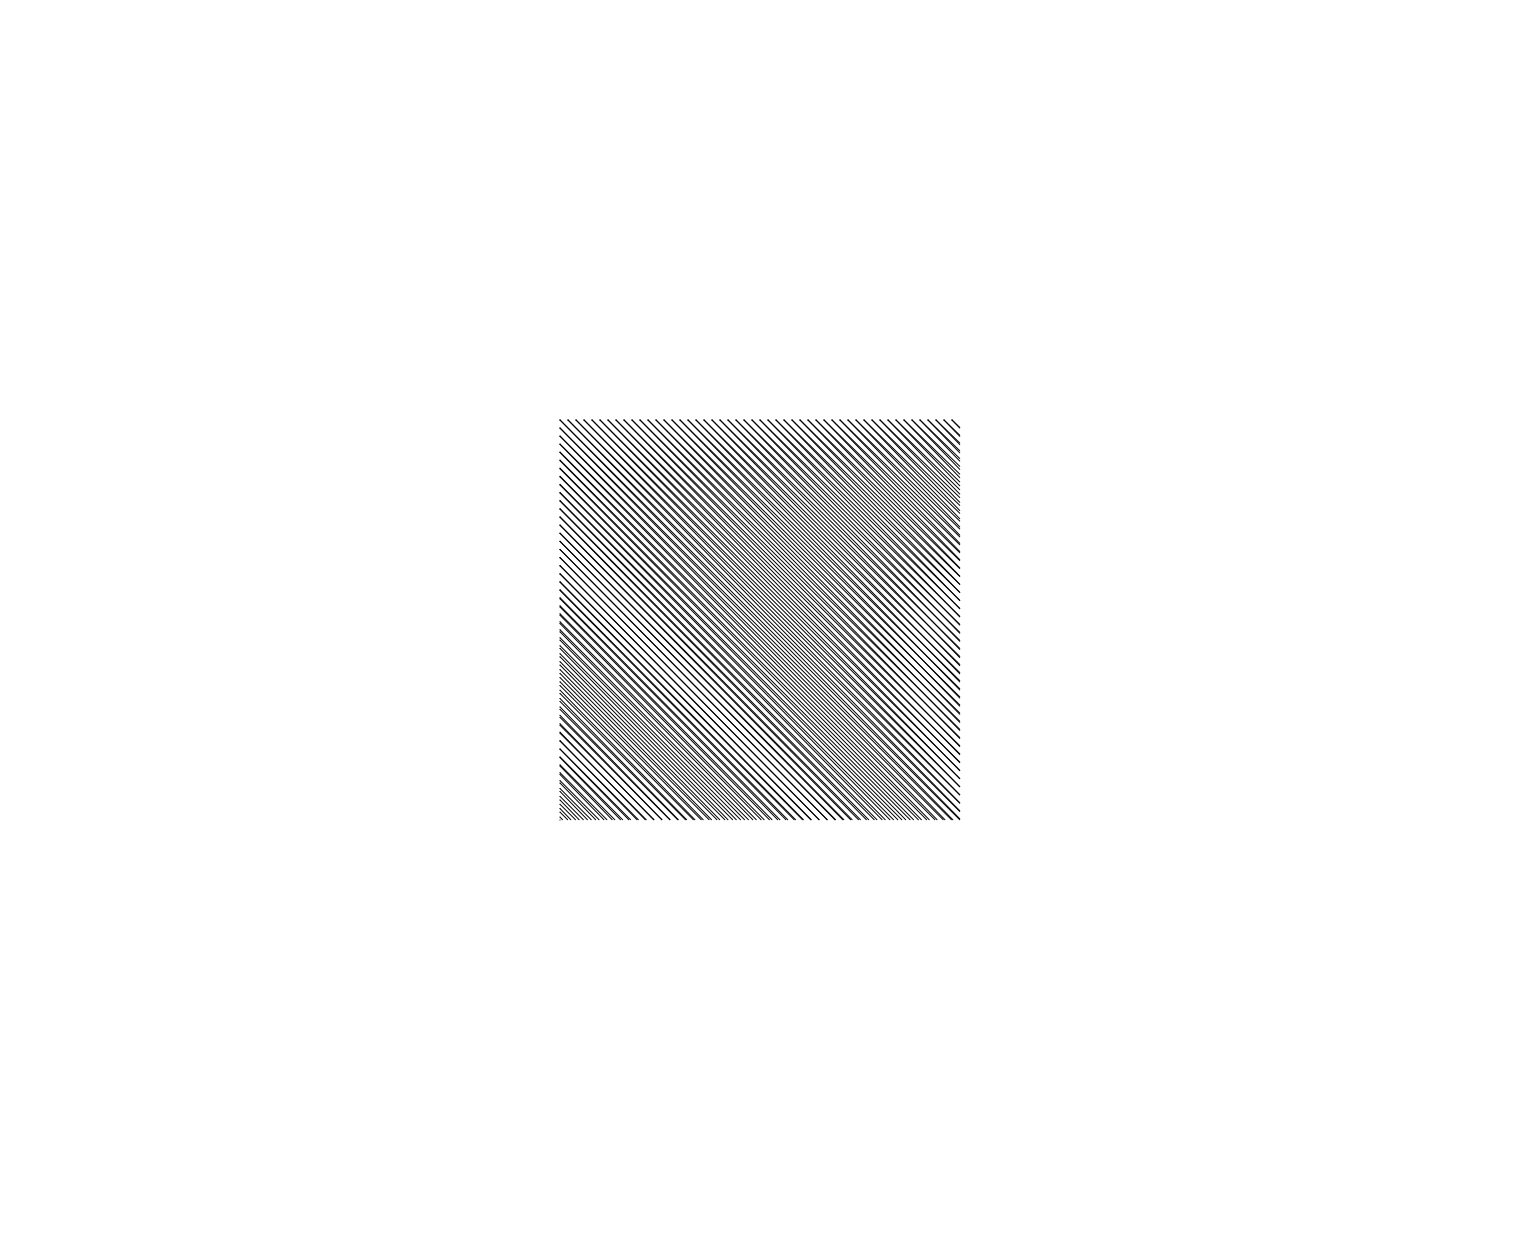
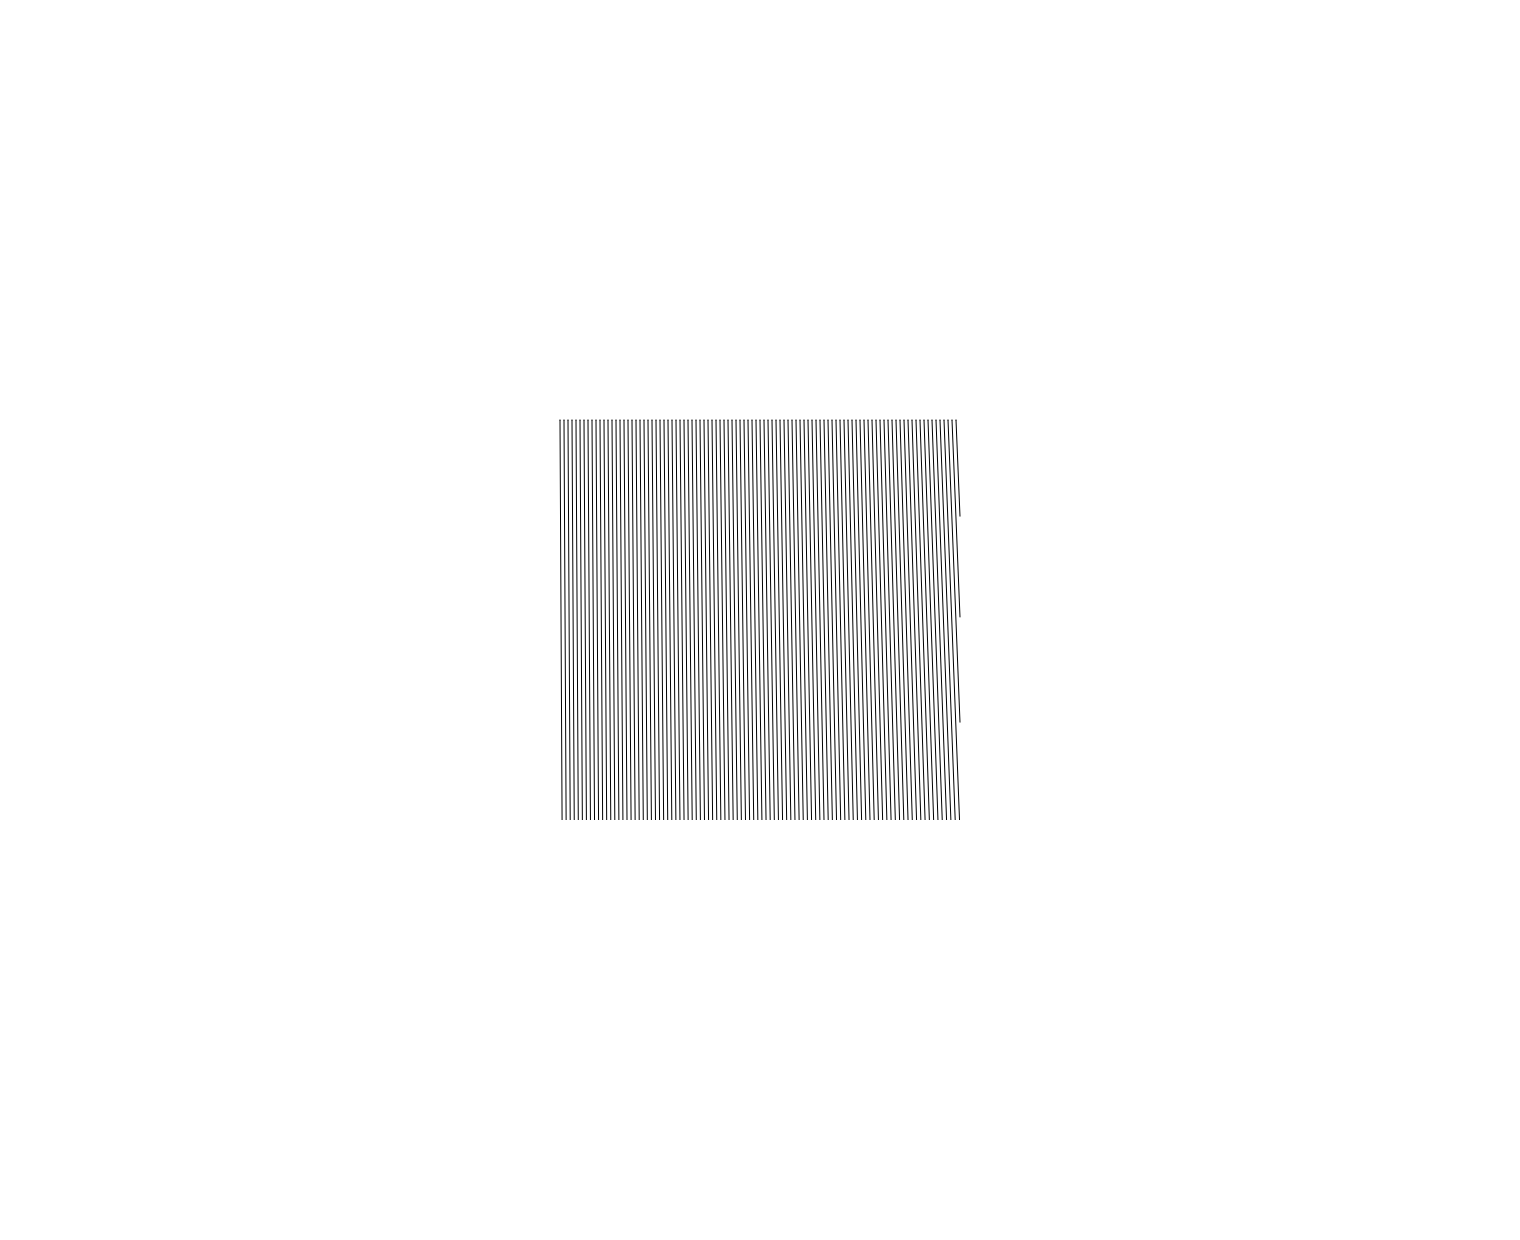
Release crop-tex-8

Changed region(s): [[0.3711, 0.3371, 0.6493, 0.6742]]

diff --git a/index.js b/index.js
@@ -1,7 +1,7 @@
 const playground = require('./lib/playground')
 
 playground({
-  title: 'crop-tex-7',
+  title: 'crop-tex-8',
   server: 'xy-server.local',
   optimize: false,
   useTurtle: false
@@ -21,16 +21,9 @@ playground({
     plotter.height / 2 + 50
   ]
 
-  for (let i = -100; i < 100; i += 2) {
+  for (let i = -100; i < 100; i++) {
     const a = [aabb[0] + i, aabb[1]]
-    const b = slope(a, 45 + normalize(i, -100, 100), 200)
-    const lines = clip([[a[0], a[1]], [b[0], b[1]]], aabb)
-    lines.forEach(line => job.line(...line[0], ...line[1]))
-  }
-
-  for (let i = -100; i < 100; i += 2) {
-    const a = [aabb[0] + i, aabb[1]]
-    const b = slope(a, 45 - normalize(i, 0, 100), 200)
+    const b = slope(a, 90 - Math.tan(normalize(i, -100, 100)) ** 2, 200)
     const lines = clip([[a[0], a[1]], [b[0], b[1]]], aabb)
     lines.forEach(line => job.line(...line[0], ...line[1]))
   }
